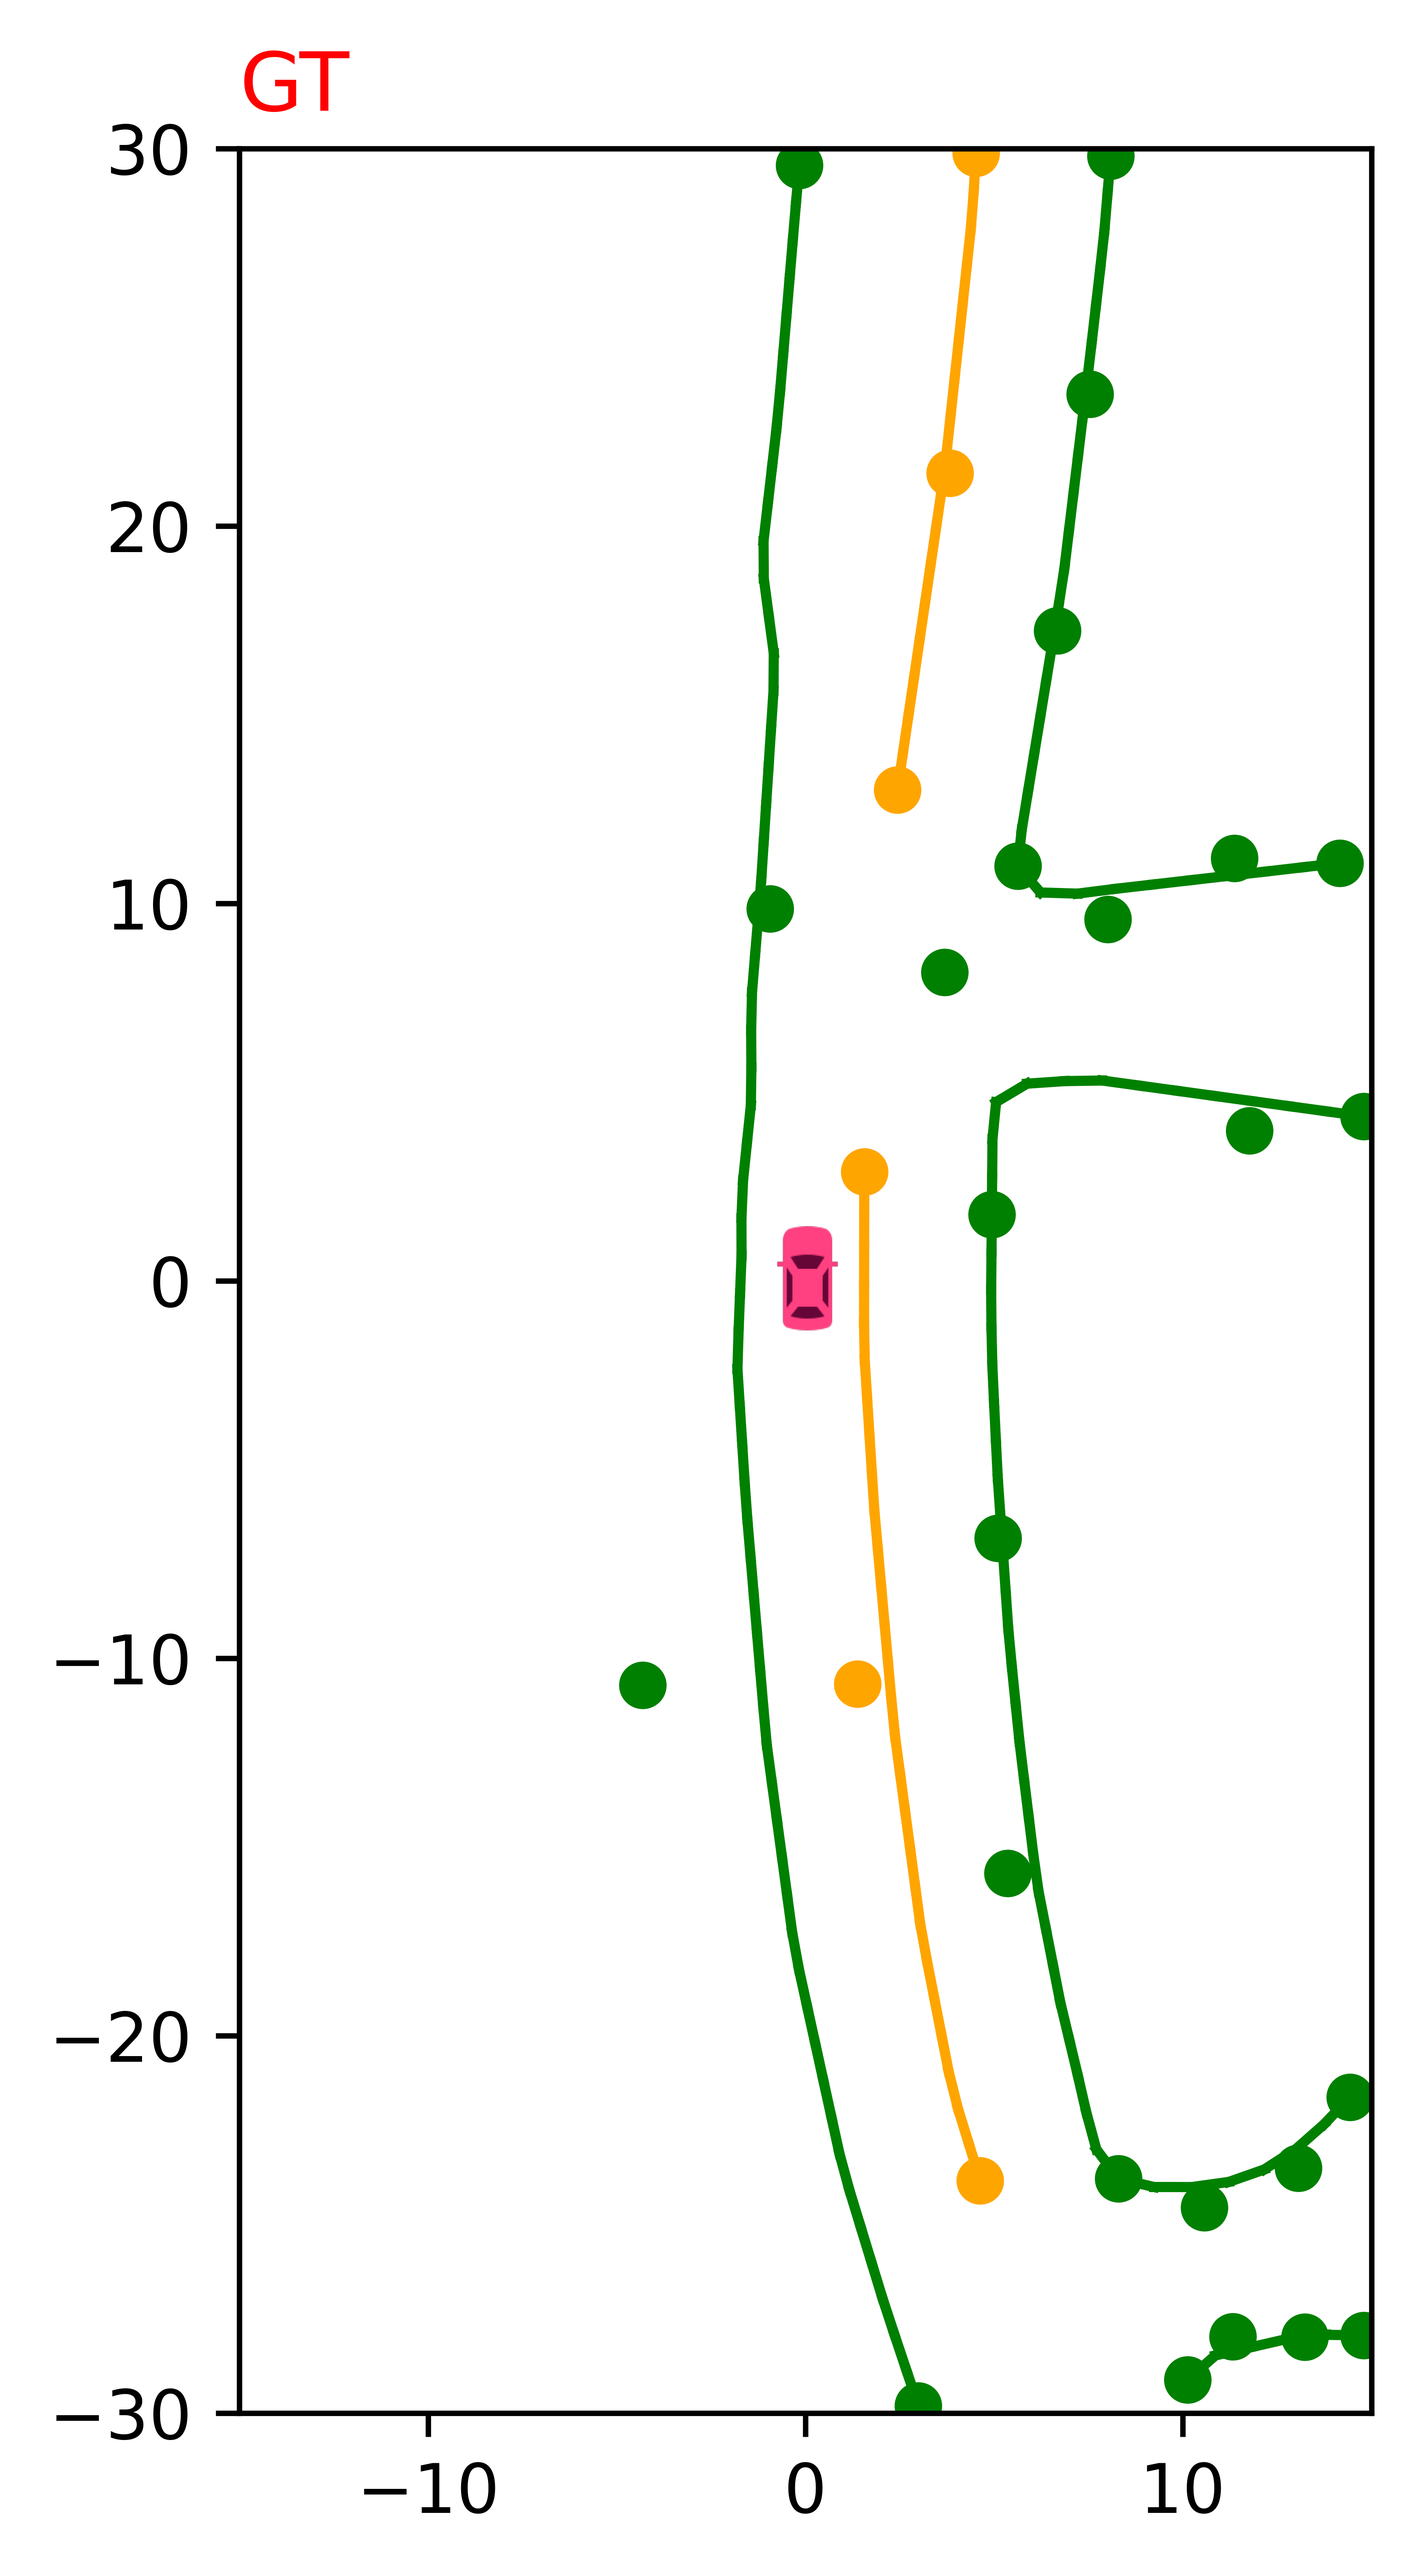
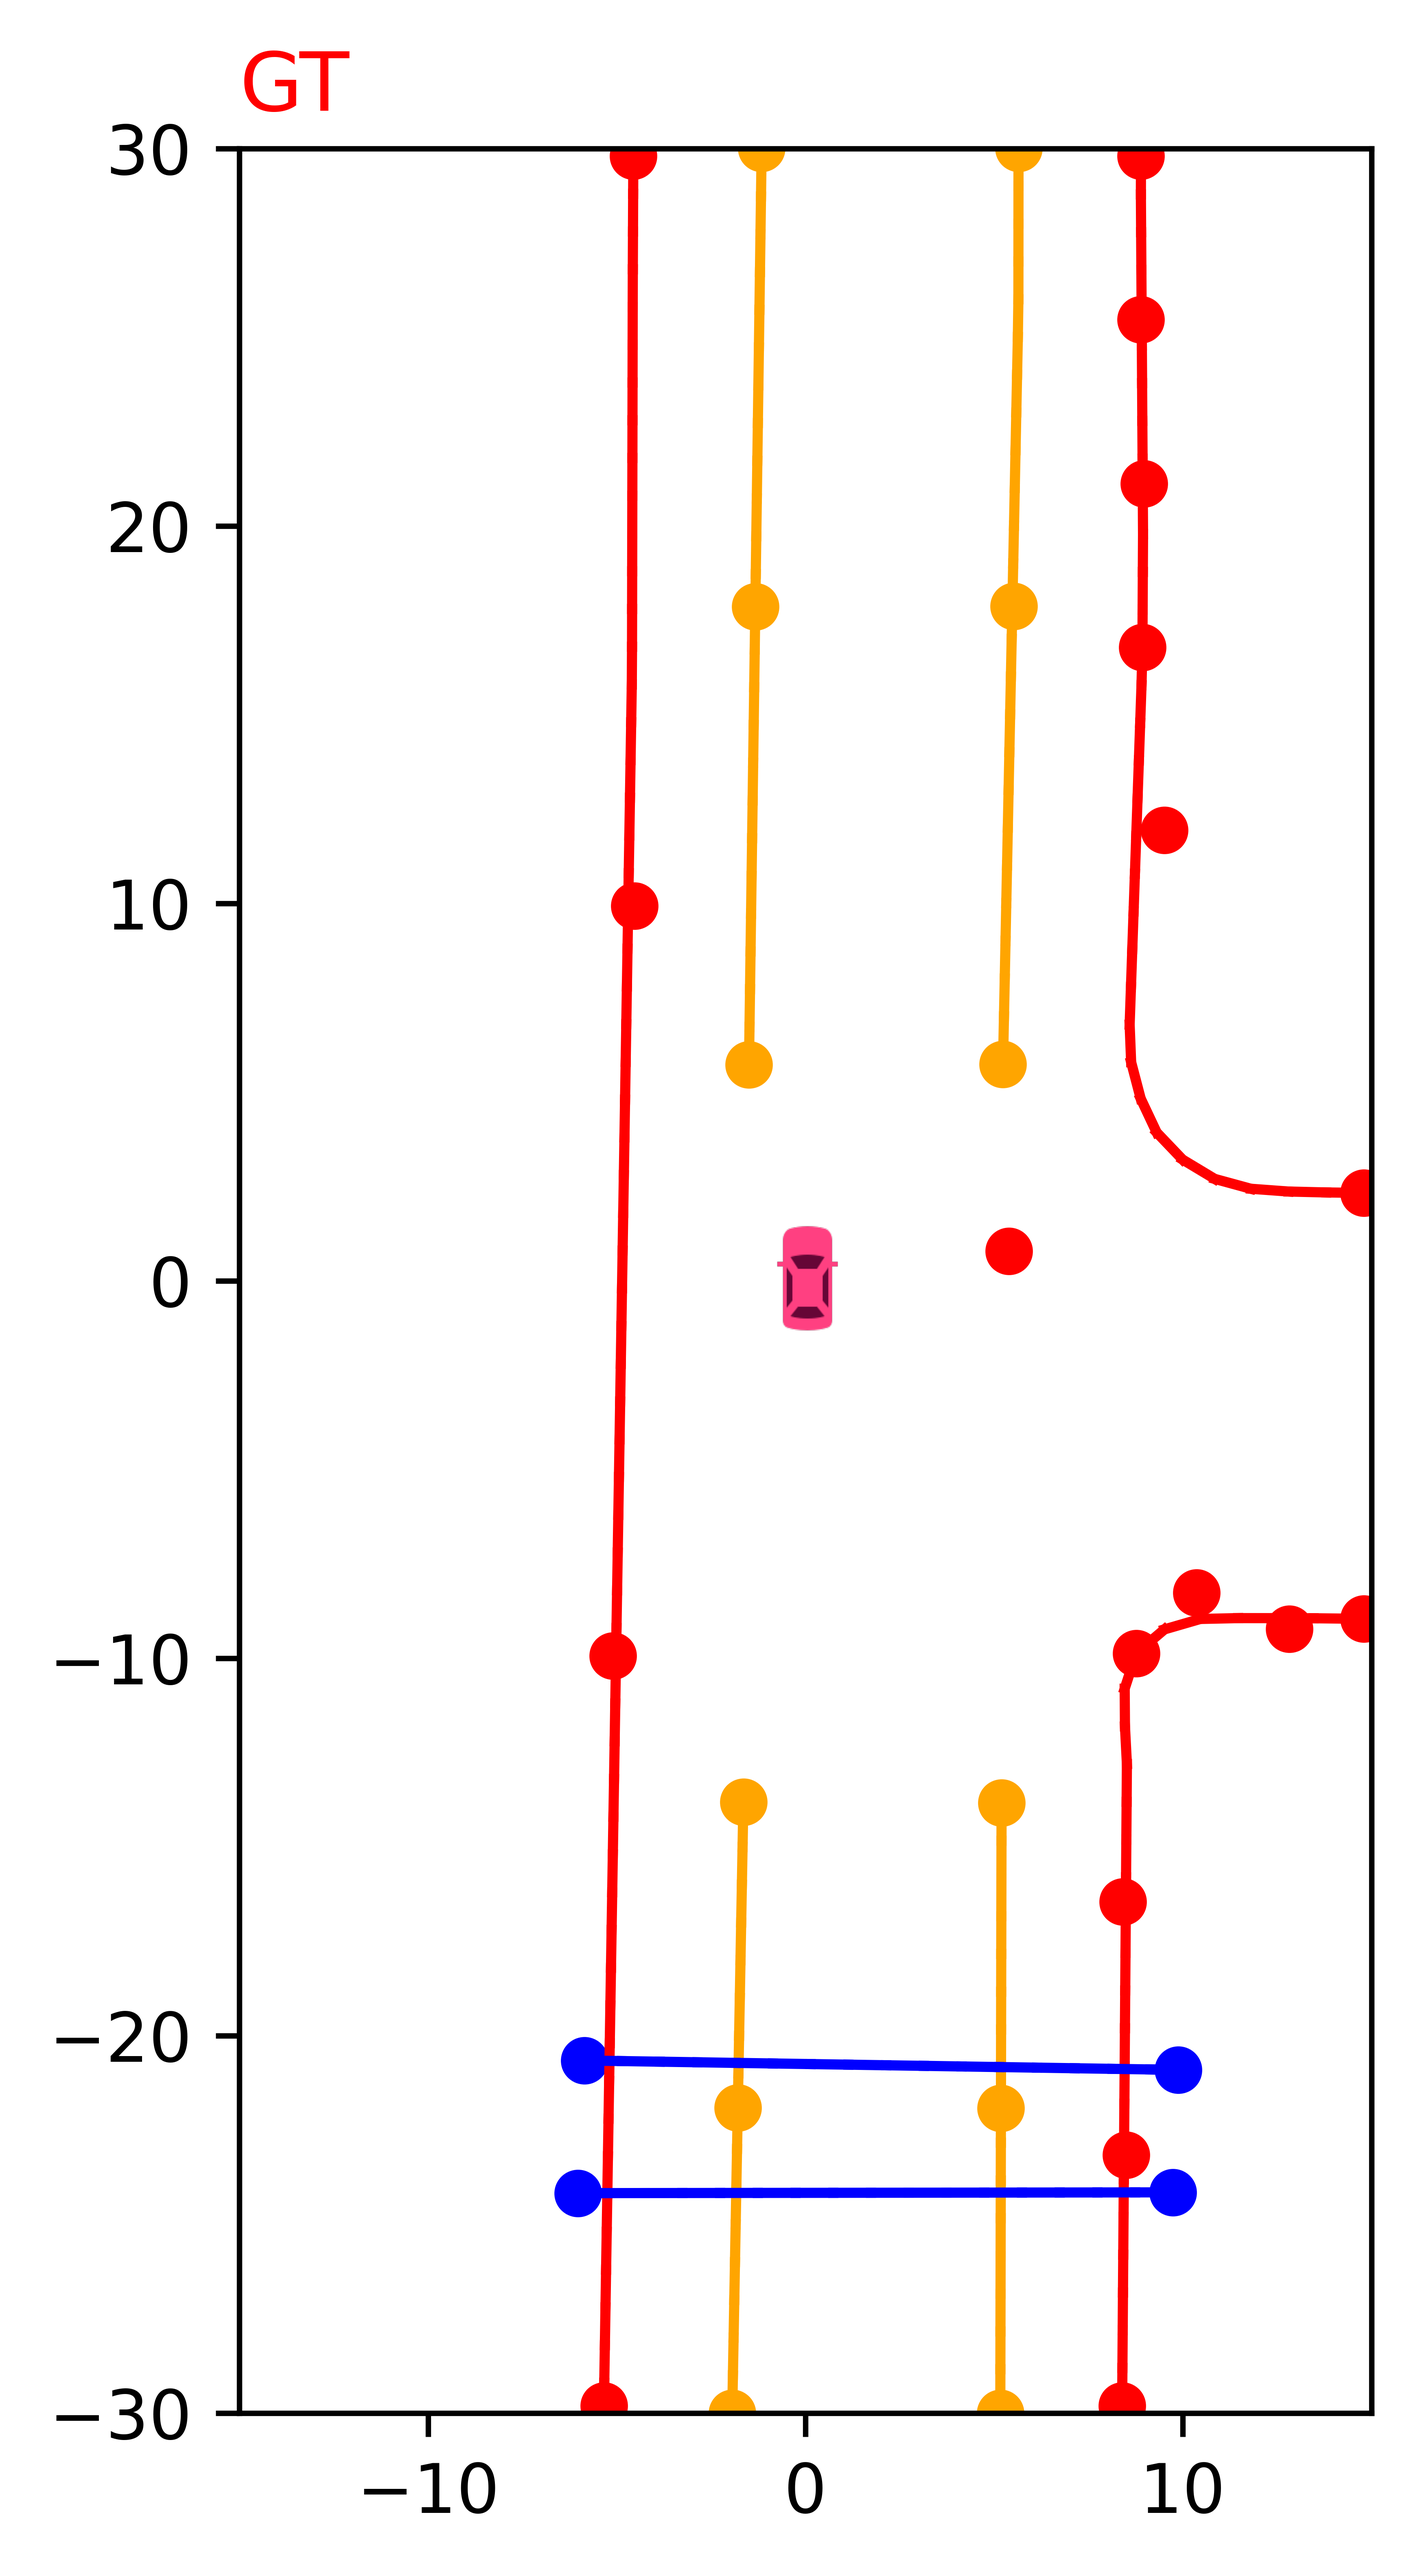
av2 visual

diff --git a/visual_bezier/av2_vis_pred.py b/visual_bezier/av2_vis_pred.py
@@ -64,14 +64,64 @@ def save_surroud(cams_dict, sample_dir, timestamp):
     full_canvas = np.full((2972 + 1550, 8192, 3), color, dtype=np.uint8)
     full_canvas[:2972, :, :] = resized_first_row_canvas
     full_canvas[2972:, :, :] = second_row_canvas
-    cams_img_path = osp.join(sample_dir, timestamp+'surroud_view.jpg')
+    cams_img_path = osp.join(sample_dir, 'surroud_view.jpg')
     cv2.imwrite(cams_img_path, full_canvas, [cv2.IMWRITE_JPEG_QUALITY, 70])
+
+def concat(sample_path):
+    gt_path = osp.join(sample_path, 'GT.png')
+    # pred_path = osp.join(sample_path, 'PRED_MAP_plot.png')
+    # pretrained_path = osp.join(sample_path, 'pretrained_PRED.png')
+    surroud_path = osp.join(sample_path, 'surroud_view.jpg')
+    gt = cv2.imread(gt_path)
+    # pred = cv2.imread(pred_path)
+    # pretrained =  cv2.imread(pretrained_path)
+    surroud = cv2.imread(surroud_path)
+
+    surroud_h, surroud_w, _ = surroud.shape
+    pred_h, pred_w, _ = gt.shape
+    resize_ratio = surroud_h / pred_h
+
+    resized_w = pred_w * resize_ratio
+    # resized_pred = cv2.resize(pred, (int(resized_w), int(surroud_h)))
+    resized_gt_map_img = cv2.resize(gt, (int(resized_w), int(surroud_h)))
+    # resized_pretrained = cv2.resize(pretrained, (int(resized_w), int(surroud_h)))
+
+    img = cv2.hconcat([surroud, resized_gt_map_img])
+
+    cams_img_path = osp.join(sample_path, 'Sample_vis.jpg')
+    cv2.imwrite(cams_img_path, img, [cv2.IMWRITE_JPEG_QUALITY, 100])
+
+
+def save_GT_visual(ego_points, ctr_points, car_img, sample_path):
+    plt.figure(figsize=(3, 6))
+    plt.ylim(-30, 30)
+    plt.xlim(-15, 15)
+    color = {0: 'g', 1: 'orange', 2: 'b', 3: 'r', 4: "c", 5: "m", 6: "k", 7: "y", 8: "deeppink"}
+
+    for item in ctr_points:
+        pts = item['pts']
+        y = [-pt[0] + 15 for pt in pts]
+        x = [-pt[1] + 30 for pt in pts]
+        plt.scatter(y, x, c=color[item['type']+1])
+
+    for item in ego_points:
+        pts = item['pts']
+        for i in range(len(pts) - 1):
+            plt.plot([pts[i][1], pts[i + 1][1]], [pts[i][0], pts[i + 1][0]], c=color[item['type']+1])
+
+    plt.imshow(car_img, extent=[-1.2, 1.2, -1.5, 1.5])
+    plt.text(-15, 31, 'GT', color='red', fontsize=12)
+    plt.tight_layout()
+
+    map_path = osp.join(sample_path, 'GT.png')
+    plt.savefig(map_path, bbox_inches='tight', format='png', dpi=1200)
+    plt.close()
 
 def main():
     anno_path = "/home/sun/Bev/BeMapNet/data/argoverse2/customer_train"
     # eval_path = "/home/sun/Bev/BeMapNet/outputs/bemapnet_nuscenes_res50/2024-05-03T10:33:35"
     project_path = "/home/sun/Bev/BeMapNet"
-    sample_dir = "/home/sun/Bev/BeMapNet/visual_bezier"
+    sample_path = "/home/sun/Bev/BeMapNet/visual_bezier"
     # folder_path = "/home/sun/Bev/BeMapNet/outputs/bemapnet_nuscenes_res50/2024-05-03T10:33:35/evaluation/results"
     car_img = Image.open('/home/sun/Bev/BeMapNet/assets/figures/lidar_car.png')
     color = {0: 'r', 1: 'orange', 2: 'b', 3: 'g', 4: "c", 5: "m", 6: "k", 7: "y", 8: "deeppink"}
@@ -89,6 +139,8 @@ def main():
         data_dict = {key: data[key].tolist() for key in data.files}
         input_dict = data_dict["input_dict"]  # ['timestamp', 'pts_filename', 'lidar_path', 'ego2global_translation', 'ego2global_rotation', 'log_id', 'scene_token', 'camego2global', 'img_filename', 'lidar2img', 'camera_intrinsics', 'ego2cam', 'camera2ego', 'cam_type', 'lidar2ego', 'ann_info']
         timestamp = input_dict["timestamp"]
+        ego_points = data_dict["ego_points"]
+        ctr_points = data_dict["ctr_points"]
 
         img_filename =input_dict["img_filename"]  # ('data/argoverse2/sensor/val/201fe83b-7dd7-38f4-9d26-7b4a668638a9/sensors/cameras/ring_front_center/315969617449927219', '.jpg')
         cams_dict = {}
@@ -97,8 +149,10 @@ def main():
             img_name = path.parts[-2]
             img_path = osp.join(project_path, img)
             cams_dict[img_name] = img_path
-        save_surroud(cams_dict, sample_dir, timestamp)
+        save_surroud(cams_dict, sample_path, timestamp)
 
+        save_GT_visual(ego_points, ctr_points, car_img, sample_path)
+        concat(sample_path)
         # if cam_img is not None:
         #     cv2.imshow("cam_img", cam_img)
         #     cv2.waitKey(0)

diff --git a/tools/bezier_converter/argoverse2/av2_map_bezier_convert.py b/tools/bezier_converter/argoverse2/av2_map_bezier_convert.py
@@ -428,17 +428,17 @@ class BezierConverter(object):
 
 
 def main():
-    save_dir = "/home/sun/Bev/BeMapNet/data/argoverse2/customer_train"
-    ann_file = "/home/sun/MapTR/data/argoverse2/sensor/av2_map_infos_train.pkl"
+    save_dir = "/home/sun/Bev/BeMapNet/data/argoverse2/customer_val"
+    ann_file = "/home/sun/MapTR/data/argoverse2/sensor/av2_map_infos_val.pkl"
     load_interval = 1
 
     data = mmcv.load(ann_file, file_format='pkl')
     data_infos = list(sorted(data['samples'], key=lambda e: e['timestamp']))
     data_infos = data_infos[::load_interval]
-    for j in tqdm(range(200, 201)):
-    # for j in tqdm(range(len(data_infos))):
+    # for j in tqdm(range(200, 201)):
+    for j in tqdm(range(len(data_infos))):
         data_info = data_infos[j]
-        print("timestamp", data_info["timestamp"])
+        # print("timestamp", data_info["timestamp"])
 
         bezier_convert = BezierConverter(data_info)
         input_dict = bezier_convert.get_data_info(data_info)
@@ -461,13 +461,13 @@ def main():
                             semantic_mask=semantic_masks[0], ctr_points=instance_ctr_points, ego_points=instance_ego_points,
                             map_vectors=instance_map_points)
 
-        bezier_convert.plot_curve_recovery_by_ctr_points(ctr_points)
-        bezier_convert.plot_ctr_points(ctr_points)
+        # bezier_convert.plot_curve_recovery_by_ctr_points(ctr_points)
+        # bezier_convert.plot_ctr_points(ctr_points)
         # bezier_convert.plot_ego_points(ego_points)
         # bezier_convert.plot_map_points(map_vectors)
         # bezier_convert.plot_semantic_map(instance_masks)
         #
-        plt.show()
+        # plt.show()
 
 if __name__ == '__main__':
     main()
